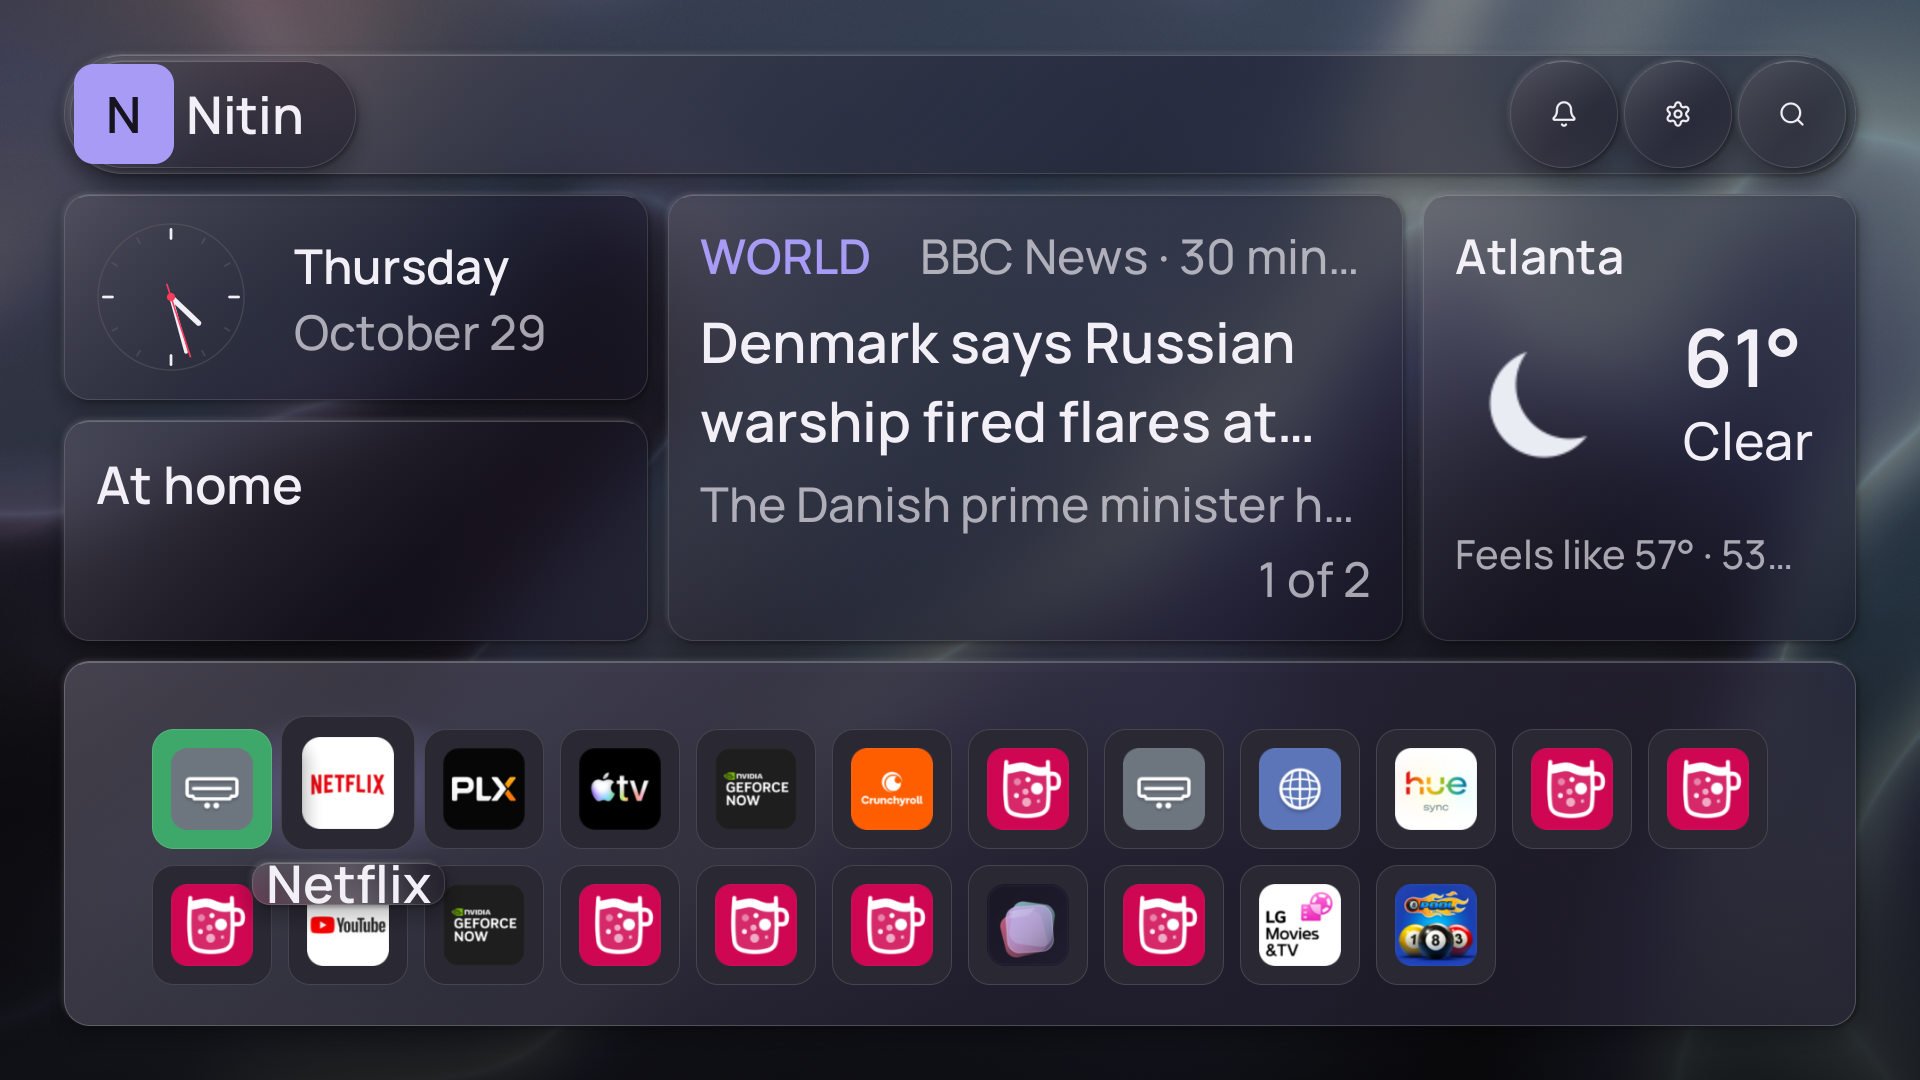
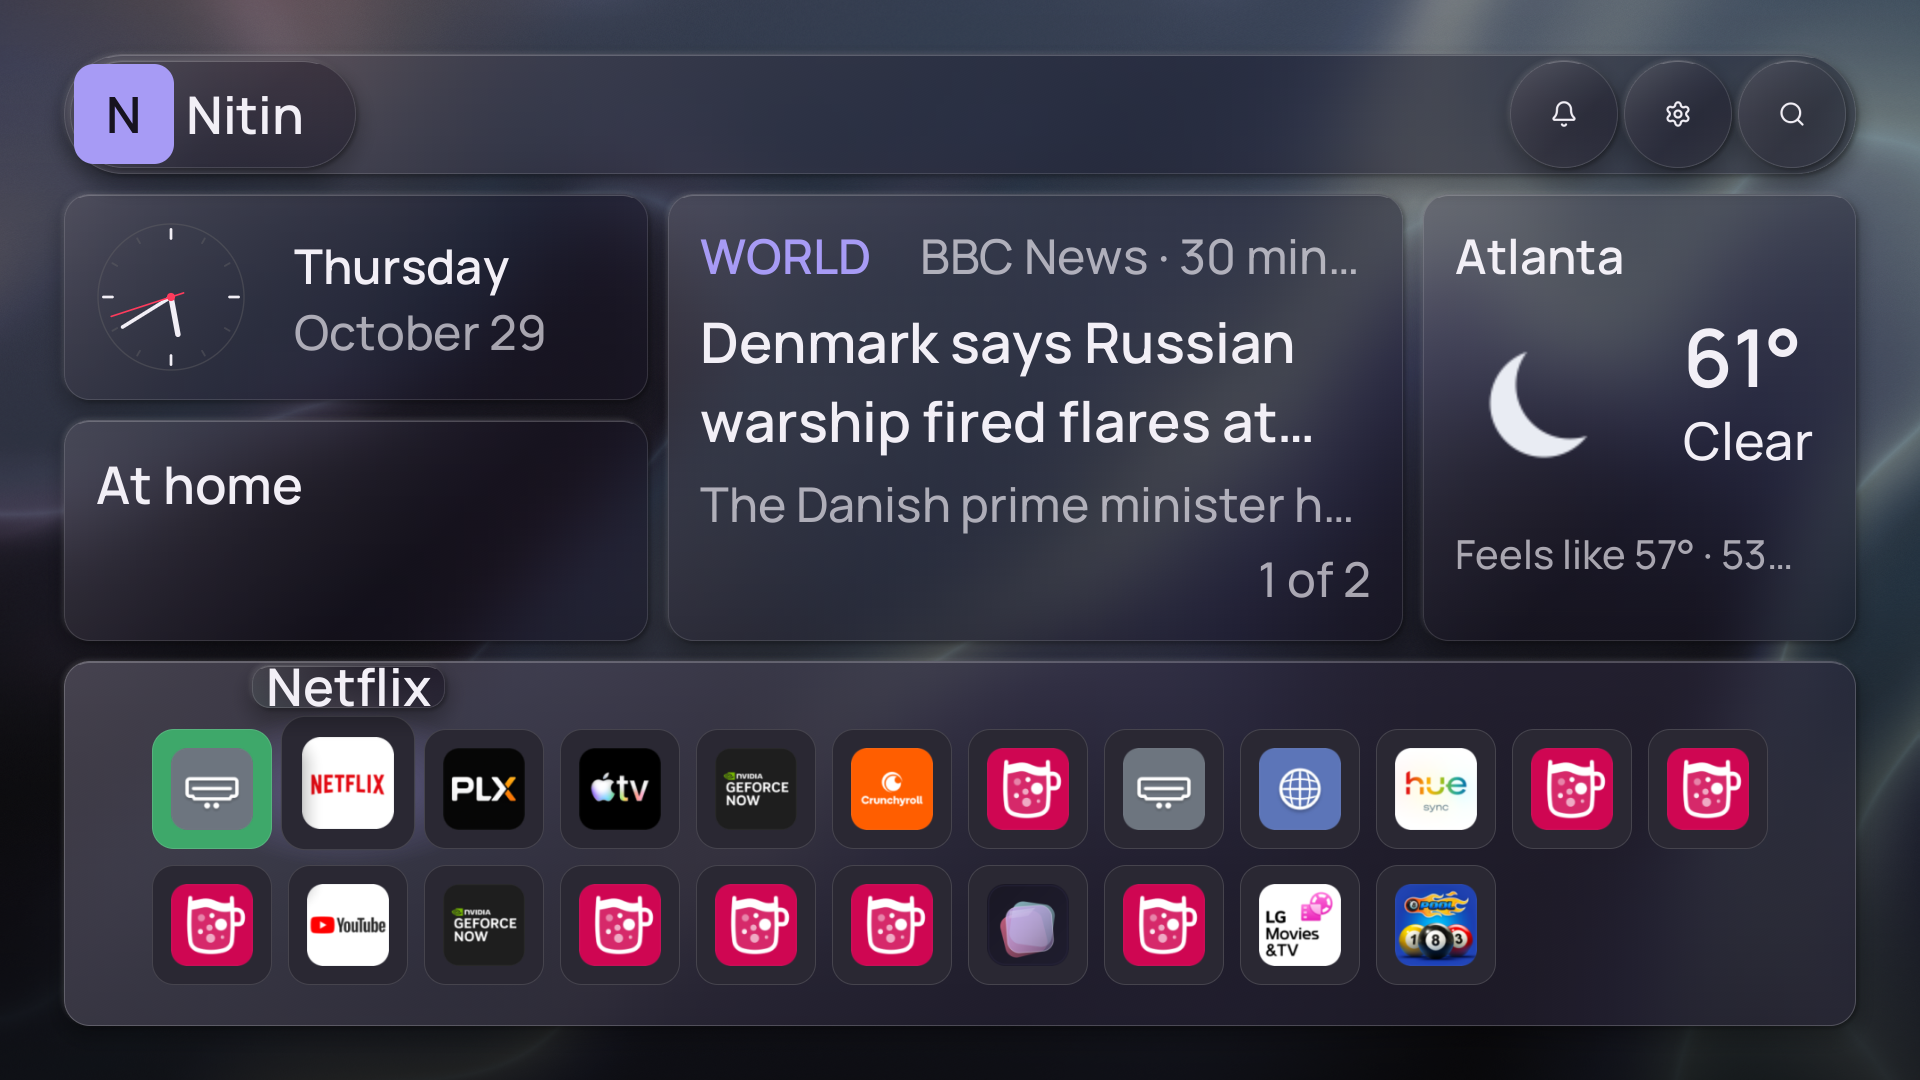
Rust Home: the top dock row's name stands above its tile whether or not the dock scrolls, as in the QML Home

Changed region(s): [[0.125, 0.6111, 0.25, 0.6722], [0.125, 0.7944, 0.2188, 0.8556], [0.0625, 0.275, 0.0938, 0.3056]]

diff --git a/rustui/ui/src/home/surface.rs b/rustui/ui/src/home/surface.rs
@@ -756,7 +756,7 @@ impl HomeSurface {
                     let ink = kit.ui.look.ink();
                     let style = role_style(kit, TypeRole::Label, Some(Weight::SemiBold), ink, Align::Centre);
                     let w = (width_of(kit, style, &title) + 26.0).round().max(40.0);
-                    let above = home.dock.row_of(i) == home.dock.scroll_row && home.dock.scrollable();
+                    let above = home.dock.label_above(i);
                     let lift = home.dock.tile as f32 * (kit.tokens.focus.tile_scale - 1.0) / 2.0;
                     // on whole pixels (the lift is 7.2 at a 120 tile): a run between pixels is sampled soft
                     let y = (if above { sy as f32 - lift - 4.0 - 10.0 - 43.0 } else { sy as f32 + home.dock.tile as f32 + lift - 4.0 + 10.0 } - scroll).round();
@@ -1157,6 +1157,59 @@ mod tests {
                     let bad: Vec<_> = lint.findings().into_iter().filter(|f| f.subject.starts_with("apps.")).collect();
                     assert!(bad.is_empty(), "{mode:?} {scale} rail {i}: {bad:?}");
                     assert!(lint.words().iter().any(|w| w.name.starts_with("apps.rail")));
+                }
+                std::mem::forget(h);
+            }
+        }
+    }
+
+    /// The focused tile's name against its box (in the dock's coordinates): `Some(true)` above it, `Some(false)` below it.
+    fn pill_side(s: &HomeSurface, home: &Home) -> Option<bool> {
+        let d = s.dock.as_ref()?;
+        d.pill_for?;
+        let (_, top) = home.dock.slot(home.dock.index);
+        let (top, tile) = (top as f32 - d.scroll, home.dock.tile as f32);
+        let f = d.pill_text.frame();
+        if f.y + f.h <= top {
+            Some(true)
+        } else if f.y >= top + tile {
+            Some(false)
+        } else {
+            None
+        }
+    }
+
+    #[test]
+    fn a_focused_tiles_name_stands_above_it_on_the_docks_top_row_and_below_it_on_the_others_at_both_text_sizes() {
+        let many: Vec<Value> = std::iter::once(json!({"id": "com.webos.app.discovery", "title": "Apps", "unmovable": true, "icon": ""}))
+            .chain((1..20).map(|n| json!({"id": format!("app{n}"), "title": format!("App {n}"), "icon": "", "iconColor": "#101010"})))
+            .collect();
+        for scale in [1.0, 2.0] {
+            // one row of six apps, then two rows of them
+            for (count, second_row) in [(6, false), (20, true)] {
+                let (h, mut kit) = testkit::kit_in(Mode::Dark, scale);
+                let mut engine = Engine::new(&kit).expect("an engine");
+                let mut home = Home::new(lumatv_tokens::Tokens::shipped().json().clone(), super::super::grid::shipped(), json!({}));
+                fixtures(&mut home);
+                home.update(&Input::Luna { tag: model::LP_TAG, payload: json!({"launchPoints": many[..count]}) }, 1500);
+                for (i, k) in ["down", "down", "down", "right"].into_iter().enumerate() {
+                    press(&mut home, k, 2000 + i as u64 * 100);
+                }
+                let mut s = HomeSurface::new(1000);
+                s.dirs(&testkit::module_dir(), std::path::Path::new("/nonexistent"));
+                s.apply(&mut kit, &mut engine, &mut home, 2500).expect("Home drawn");
+                assert_eq!(home.dock.row_of(home.dock.index), 0, "{scale}: the dock's top row has the focus");
+                assert_eq!(pill_side(&s, &home), Some(true), "{scale}, {count} apps: the top row's name is above its tile");
+                // the name stays on the dock's card
+                let d = s.dock.as_ref().unwrap();
+                let f = d.pill_text.frame();
+                assert!(f.y >= 0.0 && f.y + f.h <= d.frame.h, "{scale}, {count} apps: {f:?} on a card {} high", d.frame.h);
+                if second_row {
+                    assert_eq!(home.dock.total_rows(), 2);
+                    press(&mut home, "down", 3000);
+                    s.apply(&mut kit, &mut engine, &mut home, 3300).expect("Home drawn");
+                    assert_eq!(home.dock.row_of(home.dock.index), 1, "{scale}");
+                    assert_eq!(pill_side(&s, &home), Some(false), "{scale}: the second row's name is below its tile");
                 }
                 std::mem::forget(h);
             }

diff --git a/rustui/ui/src/home/dock.rs b/rustui/ui/src/home/dock.rs
@@ -216,6 +216,12 @@ impl Dock {
         }
     }
 
+    /// Whether tile `i`'s name stands above it: the dock's top visible row puts it above so the name never covers the row beneath
+    /// (`Dock.qml` `labelAbove`, a row against `scrollRow`, whether or not the dock scrolls); every other row puts it below.
+    pub fn label_above(&self, i: usize) -> bool {
+        self.row_of(i) == self.scroll_row
+    }
+
     // ---- navigation
     pub fn ensure_visible(&mut self) {
         let row = self.row_of(self.index);
